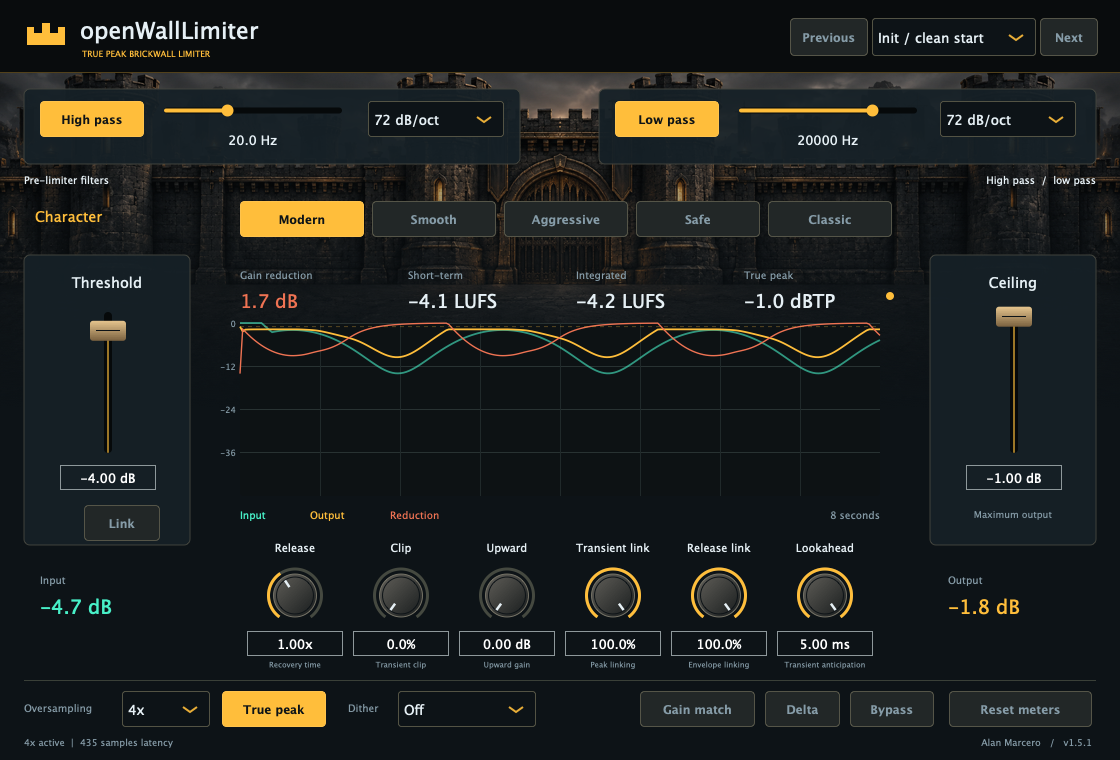
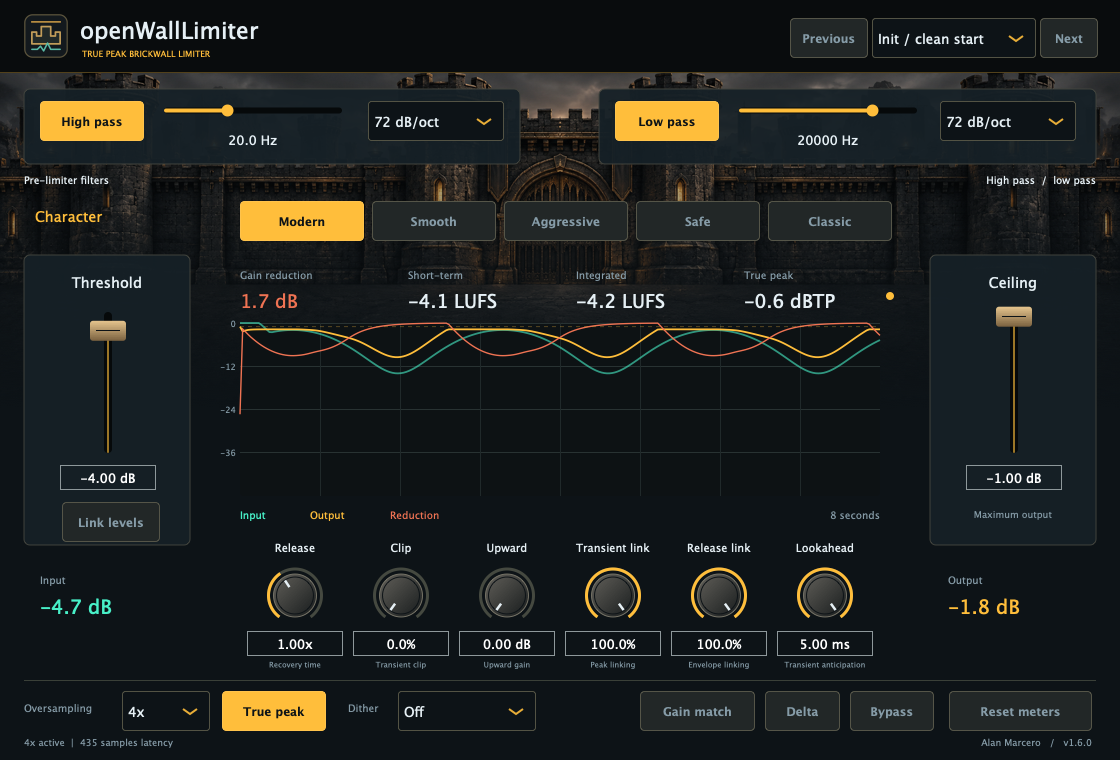
Release openWallLimiter 1.6.0 with a beat-synced fortress mark

diff --git a/Source/Plugin/PluginEditor.cpp b/Source/Plugin/PluginEditor.cpp
@@ -37,8 +37,9 @@ WallLook::WallLook() {
     setColour(juce::PopupMenu::highlightedTextColourId, ink);
     setColour(juce::TextButton::textColourOffId, muted);
     setColour(juce::TextButton::textColourOnId, ink);
-    setColour(juce::TooltipWindow::backgroundColourId, paper);
-    setColour(juce::TooltipWindow::textColourId, ink);
+    setColour(juce::TooltipWindow::backgroundColourId, ink);
+    setColour(juce::TooltipWindow::textColourId, paper);
+    setColour(juce::TooltipWindow::outlineColourId, brass);
 }
 juce::Font WallLook::getTextButtonFont(juce::TextButton&, int) { return font(14, true); }
 void WallLook::drawButtonBackground(juce::Graphics &g, juce::Button &b, const juce::Colour &, bool hover,
@@ -136,6 +137,7 @@ void WallEditor::toggle(const char *id, const char *label) {
 }
 WallEditor::WallEditor(WallProcessor &p) : AudioProcessorEditor(p), wallProcessor(p) {
     setLookAndFeel(&look);
+    ceilingMark = juce::Drawable::createFromImageData(BinaryData::ceilingmeter_svg, BinaryData::ceilingmeter_svgSize);
     fortress = juce::ImageCache::getFromMemory(BinaryData::fortress_png, BinaryData::fortress_pngSize);
     inputHistory.fill(-60);
     outputHistory.fill(-60);
@@ -265,33 +267,33 @@ void WallEditor::timerCallback() {
     repaint();
 }
 void WallEditor::resized() {
-    prevPreset.setBounds(790, 18, 78, 38);
-    presets.setBounds(872, 18, 164, 38);
-    nextPreset.setBounds(1040, 18, 58, 38);
-    buttons["highpass_on"]->setBounds(40, 101, 104, 36);
+    prevPreset.setBounds(790, 18, 78, 40);
+    presets.setBounds(872, 18, 164, 40);
+    nextPreset.setBounds(1040, 18, 58, 40);
+    buttons["highpass_on"]->setBounds(40, 101, 104, 40);
     sliders["highpass_hz"]->setBounds(152, 94, 202, 58);
-    combos["highpass_slope"]->setBounds(368, 101, 136, 36);
-    buttons["lowpass_on"]->setBounds(615, 101, 104, 36);
+    combos["highpass_slope"]->setBounds(368, 101, 136, 40);
+    buttons["lowpass_on"]->setBounds(615, 101, 104, 40);
     sliders["lowpass_hz"]->setBounds(727, 94, 202, 58);
-    combos["lowpass_slope"]->setBounds(940, 101, 136, 36);
+    combos["lowpass_slope"]->setBounds(940, 101, 136, 40);
     for (size_t i = 0; i < modes.size(); ++i)
-        modes[i].setBounds(240 + int(i) * 132, 201, 124, 36);
+        modes[i].setBounds(240 + int(i) * 132, 201, 124, 40);
     sliders["threshold"]->setBounds(53, 300, 110, 190);
     sliders["ceiling"]->setBounds(959, 300, 110, 190);
-    link.setBounds(84, 505, 76, 36);
+    link.setBounds(62, 502, 98, 40);
     sliders["release"]->setBounds(244, 560, 102, 96);
     sliders["clip"]->setBounds(350, 560, 102, 96);
     sliders["upward"]->setBounds(456, 560, 102, 96);
     sliders["stereo_link"]->setBounds(562, 560, 102, 96);
     sliders["release_link"]->setBounds(668, 560, 102, 96);
     sliders["lookahead_ms"]->setBounds(774, 560, 102, 96);
-    combos["oversampling"]->setBounds(122, 691, 88, 36);
-    buttons["true_peak"]->setBounds(222, 691, 104, 36);
-    combos["dither"]->setBounds(398, 691, 138, 36);
-    buttons["gain_match"]->setBounds(640, 691, 115, 36);
-    buttons["delta"]->setBounds(765, 691, 75, 36);
-    buttons["bypass"]->setBounds(850, 691, 84, 36);
-    reset.setBounds(949, 691, 143, 36);
+    combos["oversampling"]->setBounds(122, 691, 88, 40);
+    buttons["true_peak"]->setBounds(222, 691, 104, 40);
+    combos["dither"]->setBounds(398, 691, 138, 40);
+    buttons["gain_match"]->setBounds(640, 691, 115, 40);
+    buttons["delta"]->setBounds(765, 691, 75, 40);
+    buttons["bypass"]->setBounds(850, 691, 84, 40);
+    reset.setBounds(949, 691, 143, 40);
 }
 void WallEditor::drawGraph(juce::Graphics &g) {
     juce::Rectangle<float> r{240, 323, 640, 173};
@@ -345,23 +347,13 @@ void WallEditor::paint(juce::Graphics &g) {
     g.fillRect(0, 0, getWidth(), 73);
     g.setColour(brass.withAlpha(.3f));
     g.drawHorizontalLine(72, 0, float(getWidth()));
-    // The crenellated mark echoes the limiter's flat ceiling.
-    juce::Path mark;
-    mark.startNewSubPath(27, 45);
-    mark.lineTo(27, 27);
-    mark.lineTo(34, 27);
-    mark.lineTo(34, 33);
-    mark.lineTo(42, 33);
-    mark.lineTo(42, 23);
-    mark.lineTo(50, 23);
-    mark.lineTo(50, 33);
-    mark.lineTo(58, 33);
-    mark.lineTo(58, 27);
-    mark.lineTo(65, 27);
-    mark.lineTo(65, 45);
-    mark.closeSubPath();
-    g.setColour(brass);
-    g.fillPath(mark);
+    if (ceilingMark) {
+        const float decay = 1.0f - wallProcessor.artworkPhase();
+        const float pulse = decay * decay;
+        const float size = 42.0f + 9.0f * pulse;
+        const auto bounds = juce::Rectangle<float>(size, size).withCentre({46.0f, 36.0f});
+        ceilingMark->drawWithin(g, bounds, juce::RectanglePlacement::centred, 0.76f + 0.24f * pulse);
+    }
     text(g, "openWallLimiter", {80, 14, 250, 32}, 27, paper);
     text(g, "TRUE PEAK BRICKWALL LIMITER", {82, 44, 280, 18}, 10, brass);
     box(g, {24, 89, 496, 75});

diff --git a/Tests/PluginTests.cpp b/Tests/PluginTests.cpp
@@ -81,6 +81,40 @@ int main(int argc, char **argv) {
                 "legacy state keeps independent release envelopes");
         auto editor = std::unique_ptr<juce::AudioProcessorEditor>(p.createEditor());
         require(editor->getWidth() >= 1000, "editor size");
+        struct Host : juce::AudioPlayHead {
+            PositionInfo position;
+            juce::Optional<PositionInfo> getPosition() const override { return position; }
+        } host;
+        p.setPlayHead(&host);
+        juce::AudioBuffer<float> clockAudio(2, 256);
+        juce::MidiBuffer clockMidi;
+        clockAudio.clear();
+        host.position.setIsPlaying(true);
+        host.position.setBpm(140.0);
+        host.position.setPpqPosition(-1.75);
+        p.processBlock(clockAudio, clockMidi);
+        require(std::abs(p.artworkPhase() - 0.25f) < 0.0001f, "SVG follows a negative host position");
+        const auto onbeat = editor->createComponentSnapshot(juce::Rectangle<int>(17, 8, 58, 58));
+        host.position.setPpqPosition(22.875);
+        p.processBlock(clockAudio, clockMidi);
+        require(std::abs(p.artworkPhase() - 0.875f) < 0.0001f, "SVG follows a host seek");
+        const auto offbeat = editor->createComponentSnapshot(juce::Rectangle<int>(17, 8, 58, 58));
+        int changed = 0;
+        for (int y = 0; y < onbeat.getHeight(); ++y)
+            for (int x = 0; x < onbeat.getWidth(); ++x)
+                if (onbeat.getPixelAt(x, y) != offbeat.getPixelAt(x, y)) ++changed;
+        require(changed > 30, "Native SVG pixels move with beat phase");
+        host.position.setIsPlaying(false);
+        host.position.setPpqPosition(0);
+        p.processBlock(clockAudio, clockMidi);
+        require(std::abs(p.artworkPhase() - 0.875f) < 0.0001f, "SVG holds phase when the host stops");
+        p.setPlayHead(nullptr);
+        p.processBlock(clockAudio, clockMidi);
+        p.processBlock(clockAudio, clockMidi);
+        require(p.artworkPhase() > 0.875f, "SVG advances on audio time without host transport");
+        for (auto* control : editor->getChildren())
+            if (dynamic_cast<juce::Button*>(control) || dynamic_cast<juce::ComboBox*>(control))
+                require(control->getHeight() >= 40 && control->getWidth() >= 40, "action target is smaller than 40 px");
         checks::controls(p, *editor);
         p.applyPreset(1);
         require(std::abs(p.parameters.getRawParameterValue("lookahead_ms")->load() - 5.0f) < .02f,

diff --git a/Source/Plugin/ArtworkBeatClock.h b/Source/Plugin/ArtworkBeatClock.h
@@ -1,0 +1,37 @@
+#pragma once
+#include <juce_audio_processors/juce_audio_processors.h>
+#include <atomic>
+#include <cmath>
+
+// Written once per audio block. Only the published phase is read by the editor.
+class ArtworkBeatClock {
+public:
+    void reset() noexcept {
+        nextBeat = 0.0;
+        tempo = 120.0;
+        phase.store(0.0f, std::memory_order_relaxed);
+    }
+
+    void update(const juce::Optional<juce::AudioPlayHead::PositionInfo>& position,
+                int frames, double sampleRate) noexcept {
+        if (position) {
+            if (!position->getIsPlaying()) return;
+            if (const auto bpm = position->getBpm(); bpm && std::isfinite(*bpm) && *bpm > 0.0)
+                tempo = *bpm;
+            if (const auto ppq = position->getPpqPosition(); ppq && std::isfinite(*ppq))
+                nextBeat = *ppq - std::floor(*ppq);
+        }
+        phase.store(static_cast<float>(nextBeat), std::memory_order_relaxed);
+        if (sampleRate > 0.0) {
+            nextBeat += frames * tempo / (60.0 * sampleRate);
+            nextBeat -= std::floor(nextBeat);
+        }
+    }
+
+    float currentPhase() const noexcept { return phase.load(std::memory_order_relaxed); }
+
+private:
+    double nextBeat = 0.0;
+    double tempo = 120.0;
+    std::atomic<float> phase {0.0f};
+};

diff --git a/Source/Plugin/PluginEditor.h b/Source/Plugin/PluginEditor.h
@@ -29,6 +29,7 @@ class WallEditor final : public juce::AudioProcessorEditor, private juce::Timer 
     WallProcessor &wallProcessor;
     WallLook look;
     juce::Image fortress;
+    std::unique_ptr<juce::Drawable> ceilingMark;
     std::map<juce::String, std::unique_ptr<juce::Slider>> sliders;
     std::map<juce::String, std::unique_ptr<juce::ComboBox>> combos;
     std::map<juce::String, std::unique_ptr<juce::TextButton>> buttons;
@@ -38,7 +39,7 @@ class WallEditor final : public juce::AudioProcessorEditor, private juce::Timer 
     std::array<juce::TextButton, 5> modes;
     juce::ComboBox presets;
     juce::TextButton prevPreset{"Previous"}, nextPreset{"Next"};
-    juce::TextButton reset{"Reset meters"}, link{"Link"};
+    juce::TextButton reset{"Reset meters"}, link{"Link levels"};
     juce::TooltipWindow tooltip{this, 650};
     std::array<float, 240> inputHistory{}, outputHistory{}, reductionHistory{};
     int cursor = 0;

diff --git a/Source/Plugin/PluginProcessor.h b/Source/Plugin/PluginProcessor.h
@@ -1,4 +1,5 @@
 #pragma once
+#include "ArtworkBeatClock.h"
 #include "Limiter.h"
 #include "LoudnessMeter.h"
 #include "MultiPoleFilter.h"
@@ -40,6 +41,7 @@ class WallProcessor final : public juce::AudioProcessor {
     juce::AudioProcessorValueTreeState parameters;
     std::atomic<float> inputDb{-100}, outputDb{-100}, reductionDb{0}, shortLufs{-100}, integratedLufs{-100},
         truePeakDb{-100};
+    float artworkPhase() const noexcept { return artworkClock.currentPhase(); }
     std::atomic<int> effectiveFactor{4};
 
   private:
@@ -70,6 +72,7 @@ class WallProcessor final : public juce::AudioProcessor {
     std::atomic<bool> meterReset{false};
     int channels = 2, chunkSize = 512, latency = 0, currentPath = 2, nextPath = -1, warmup = 0, fade = 0,
         fadeLength = 960;
+    ArtworkBeatClock artworkClock;
     double preparedRate = 48000;
     bool ready = false;
     uint32_t randomState = 0x91a5c3u;

diff --git a/Source/Plugin/PluginProcessor.cpp b/Source/Plugin/PluginProcessor.cpp
@@ -30,6 +30,7 @@ bool WallProcessor::isBusesLayoutSupported(const BusesLayout &l) const {
            l.getMainInputChannelSet() == l.getMainOutputChannelSet();
 }
 void WallProcessor::prepareToPlay(double sr, int block) {
+    artworkClock.reset();
     ready = false;
     sr = std::isfinite(sr) ? std::clamp(sr, 8000., 192000.) : 48000.;
     preparedRate = sr;
@@ -118,6 +119,9 @@ void WallProcessor::processBlockBypassed(juce::AudioBuffer<float> &b, juce::Midi
 }
 void WallProcessor::process(juce::AudioBuffer<float> &b, bool hostBypass) {
     juce::ScopedNoDenormals noDenormals;
+    auto* playHead = getPlayHead();
+    artworkClock.update(playHead ? playHead->getPosition() : juce::Optional<juce::AudioPlayHead::PositionInfo>{},
+                        b.getNumSamples(), preparedRate);
     if (!ready || b.getNumChannels() < channels) {
         b.clear();
         return;

diff --git a/README.md b/README.md
@@ -6,6 +6,8 @@ A mastering limiter for controlling peaks and loudness at the end of a mix.
 
 [Download the latest release](https://github.com/alanmarcero/openWallLimiter/releases/latest) · [Install with OpenVST Manager](https://github.com/alanmarcero/alan-m-OpenVSTManager/releases/latest)
 
+The fortress mark pulses on quarter notes from the DAW transport, including after tempo changes or seeks. It holds when playback stops. Hosts without transport use an audio-sample clock.
+
 ## Controls
 
 - **High pass and Low pass:** Filter audio before limiting. High pass covers 10–200 Hz; Low pass covers 8–24 kHz. Choose 12, 24, 48, 72, or 96 dB-per-octave slopes, or bypass either filter.

diff --git a/docs/RELEASE_NOTES.md b/docs/RELEASE_NOTES.md
@@ -1,3 +1,9 @@
+# openWallLimiter 1.6.0
+
+The new fortress emblem follows host quarter notes. Larger controls, a clearer Link levels switch and dark tooltips make the limiter easier to operate while watching the meters.
+
+![openWallLimiter native editor](https://raw.githubusercontent.com/alanmarcero/openWallLimiter/v1.6.0/docs/screenshots/openWallLimiter.png)
+
 # openWallLimiter 1.5.1
 
 - Updated the editor with the suite's graphite, mint, and amber palette.
